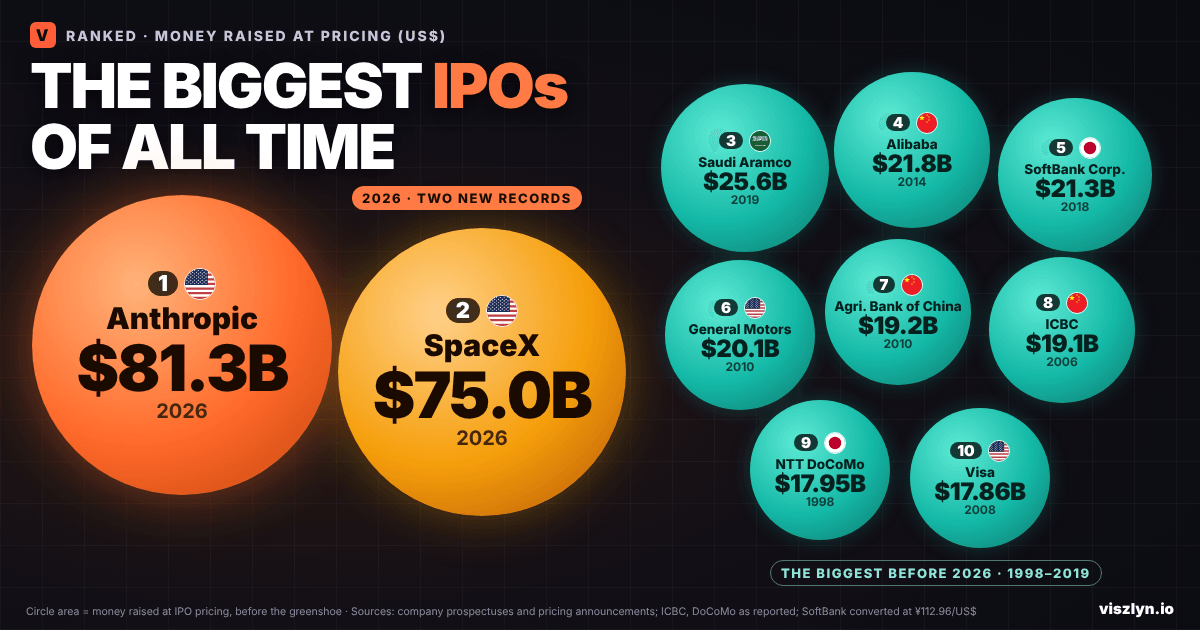
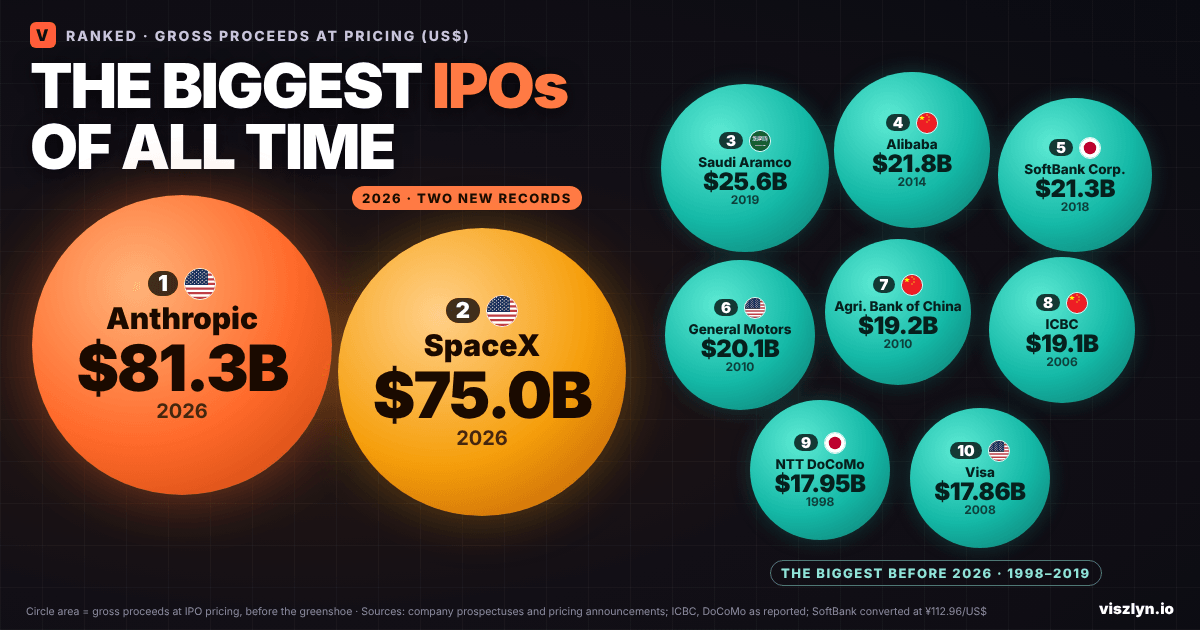
IPOs: apply review fixes (gross-proceeds wording, Anthropic share split, SpaceX net vs gross, NTT 20-F, SK hynix exclusion)
Claude-Session: https://claude.ai/code/session_01Lx7Mnbsr2j6Zre36XCS9Kp

Changed region(s): [[0.0617, 0.9651, 0.8325, 0.9952], [0.1233, 0.0302, 0.4008, 0.0905]]

diff --git a/src/data/rankings/biggest-ipos-of-all-time-2026.ts b/src/data/rankings/biggest-ipos-of-all-time-2026.ts
@@ -9,39 +9,39 @@ export const biggestIposOfAllTime2026: RankingArticle = {
 
   metaTitle: "The 10 Biggest IPOs of All Time (2026): Anthropic Is No. 1 | Viszlyn",
   metaDescription:
-    "Anthropic raised US$81.3 billion in its November 2026 IPO, the biggest ever, ahead of SpaceX (US$75.0 billion, June 2026) and Saudi Aramco (US$25.6 billion, 2019). The full top 10.",
+    "Anthropic's US$81.3 billion IPO tops the all-time ranking, ahead of SpaceX at US$75.0 billion and Saudi Aramco at US$25.6 billion. See the 10 largest offerings by gross proceeds at pricing.",
   ogTitle: "The 10 Biggest IPOs of All Time",
   ogDescription:
-    "Two 2026 listings, Anthropic (US$81.3B) and SpaceX (US$75.0B), each raised about three times more than the previous record, Saudi Aramco's US$25.6B.",
+    "Two 2026 listings, Anthropic (US$81.3B) and SpaceX (US$75.0B), were each about three times the size of the previous record, Saudi Aramco's US$25.6B.",
   twitterTitle: "The 10 Biggest IPOs Ever (2026)",
   twitterDescription:
     "Anthropic US$81.3B. SpaceX US$75.0B. Saudi Aramco US$25.6B. Alibaba US$21.8B. 2026 rewrote the IPO record book twice.",
 
   eyebrow: "Money",
   title: "The 10 Biggest IPOs of All Time",
-  dek: "Ranked by the money raised at pricing. Anthropic and SpaceX, both listed in 2026, each raised about three times as much as Saudi Aramco, which held the record from 2019.",
+  dek: "Ranked by gross proceeds at pricing. Anthropic and SpaceX, both listed in 2026, were each about three times the size of Saudi Aramco's IPO, the record from 2019.",
   publishedDate: "November 27, 2026",
   lastUpdated: "November 27, 2026",
   dataPeriod: "IPOs priced up to November 27, 2026",
   heroImage: {
     src: "/heroes/biggest-ipos-of-all-time-2026.webp",
     ogSrc: "/heroes/biggest-ipos-of-all-time-2026-og.png",
-    alt: "Circles sized by money raised in the 10 biggest IPOs: two huge circles for Anthropic (US$81.3 billion, 2026) and SpaceX (US$75.0 billion, 2026), then much smaller circles for Saudi Aramco (US$25.6 billion), Alibaba, SoftBank Corp., General Motors, Agricultural Bank of China, ICBC, NTT DoCoMo and Visa.",
+    alt: "Circles sized by gross proceeds in the 10 biggest IPOs: two huge circles for Anthropic (US$81.3 billion, 2026) and SpaceX (US$75.0 billion, 2026), then much smaller circles for Saudi Aramco (US$25.6 billion), Alibaba, SoftBank Corp., General Motors, Agricultural Bank of China, ICBC, NTT DoCoMo and Visa.",
   },
 
   quickAnswer:
-    "The biggest IPO of all time is Anthropic's: US$81.34 billion raised when it priced 980 million shares at US$83 on November 18, 2026, according to its final prospectus. With the extra shares its underwriters later bought, the total reached about US$93.5 billion. SpaceX is second with US$75.0 billion (June 2026), and Saudi Aramco, the record holder from 2019 until SpaceX, is third with US$25.6 billion.",
+    "The biggest IPO of all time is Anthropic's. It had a gross offering value of US$81.34 billion when it priced 980 million shares at US$83 on November 18, 2026, according to its final prospectus. Most of the shares were new stock sold by Anthropic; about 23.6 million were sold by existing shareholders. With the extra shares its underwriters later bought, the offering reached about US$93.5 billion. SpaceX is second at US$75.0 billion (June 2026), and Saudi Aramco, the record holder from 2019 until SpaceX, is third at US$25.6 billion.",
   introParagraph:
-    "An initial public offering (IPO) is the first time a company sells its shares to the public. This ranking compares the money raised at the moment each IPO was priced, before the extra \"greenshoe\" shares that banks can sell in the days after a listing. That is the one figure every deal has, stated in the company's own offering documents. The total after the greenshoe is shown for each entry too; it does not change the order of the top nine. Money raised counts every share sold in the offering, whether it was new stock from the company or existing shares sold by owners such as governments and early investors.",
+    "An initial public offering (IPO) is the first time a company sells its shares to the public. This ranking compares gross proceeds at the original offering price, before any extra \"greenshoe\" shares the banks bought afterwards. That gives a consistent starting point for every deal, and the total after the greenshoe is shown separately for each entry; it does not change the order of the top nine. Gross proceeds means the total value of the shares sold, before fees, whoever sold them. It measures the size of the offering, not the money the company received: shares sold by existing owners, such as governments and early investors, pay those owners.",
   calloutBox: {
     label: "2026 broke the record twice",
-    body: "SpaceX's US$75.0 billion IPO in June 2026 nearly tripled Saudi Aramco's 2019 record of US$25.6 billion. It stood for about five months, until Anthropic raised US$81.3 billion in November. Anthropic also sold about US$26.0 billion of non-voting shares in a separate private sale at the same time. That sale was not part of the IPO, so it is not counted here.",
+    body: "SpaceX's US$75.0 billion IPO in June 2026 nearly tripled Saudi Aramco's 2019 record of US$25.6 billion. It stood for about five months, until Anthropic's US$81.3 billion IPO in November. Anthropic also sold about US$26.0 billion of non-voting shares in a separate private sale at the same time. That sale was not part of the IPO, so it is not counted here.",
   },
 
-  chartTitle: "Money raised at IPO pricing, before the greenshoe (US$ billions)",
+  chartTitle: "Gross proceeds at IPO pricing, before the greenshoe (US$ billions)",
   chartSource: "Company prospectuses and offering announcements. SoftBank Corp. converted by Viszlyn; ICBC and NTT DoCoMo as reported at the time",
   chartTapNote: "Tap any company to see the year, exchange and total after the greenshoe.",
-  entryValueLabel: "Raised at pricing:",
+  entryValueLabel: "Gross proceeds at pricing:",
   chartItems: [
     { rank: 1, name: "Anthropic", value: "$81.3B", raw: 81.34, countries: [{ name: "Anthropic (2026)", flagCode: "us" }] },
     { rank: 2, name: "SpaceX", value: "$75.0B", raw: 75.0, countries: [{ name: "SpaceX (2026)", flagCode: "us" }] },
@@ -68,9 +68,9 @@ export const biggestIposOfAllTime2026: RankingArticle = {
     {
       rank: 9, name: "NTT DoCoMo", earnings: "About US$17.95 billion (¥2.1 trillion)", category: "Japan · Mobile phones · October 1998",
       origin: "Tokyo Stock Exchange · ¥3.9 million per share",
-      blurb: "DoCoMo sold 545,000 shares at ¥3.9 million each, about ¥2.1 trillion, of which roughly ¥1.2 trillion was new shares and the rest sold by its parent NTT. These figures come from news reports at the time; Viszlyn could not access a 1998 company filing.",
+      blurb: "The offering totalled 545,000 shares: NTT DoCoMo issued 327,000 new shares and its parent NTT sold 218,000, according to NTT's annual report filed with the SEC. At the reported price of ¥3.9 million a share, that is ¥1,275.3 billion of new shares and ¥850.2 billion sold by NTT (Viszlyn calculation), about ¥2.1 trillion in all. The US dollar total, US$17.95 billion, is as reported at the time.",
       standoutFact: "It ended its first trading day as Japan's third-most valuable company, behind only its parent NTT and Toyota.",
-      sourceTag: "Kyodo News and RCR Wireless (October 1998)",
+      sourceTag: "NTT, Form 20-F (share split); Kyodo News and RCR Wireless (price and US$ total, 1998)",
       countries: [{ name: "Japan", flagCode: "jp" }],
       image: { src: `${P}/docomo.webp`, width: 675, height: 1200, alt: "Sanno Park Tower, a tall pale office tower in Tokyo, against a blue sky", author: "Akonnchiroll", license: "CC BY-SA 4.0", licenseUrl: SA4, sourceUrl: "https://commons.wikimedia.org/wiki/File:Sanno_Park_Tower.jpg", caption: "Sanno Park Tower, Tokyo, NTT DoCoMo's headquarters." },
     },
@@ -132,7 +132,7 @@ export const biggestIposOfAllTime2026: RankingArticle = {
       rank: 2, name: "SpaceX", earnings: "US$75.0 billion at pricing · US$86.25 billion after the greenshoe", category: "United States · Space · June 2026",
       origin: "Nasdaq Global Select Market and Nasdaq Texas · US$135 per share",
       blurb: "SpaceX sold 555,555,555 shares at US$135 for US$74,999,999,925, according to its final prospectus, all of it new stock sold by the company. With the underwriters' extra shares the gross total was US$86.25 billion.",
-      standoutFact: "SpaceX's own closing announcement cites about US$85.7 billion; its quarterly report shows that is the amount after US$575 million of fees and costs.",
+      standoutFact: "SpaceX's SEC filing reports US$85.675 billion of net proceeds after US$575 million of underwriting commissions and offering costs; its closing announcement describes about US$85.7 billion as gross proceeds. The gross value of the full offering was about US$86.25 billion.",
       sourceTag: "SpaceX, final prospectus (Form 424B4) and Form 10-Q (Q2 2026)",
       countries: [{ name: "United States", flagCode: "us" }],
       image: { src: `${P}/spacex.webp`, width: 1200, height: 800, alt: "SpaceX's white headquarters and factory building in Hawthorne, California", author: "SpaceX", license: "CC0", licenseUrl: CC0, sourceUrl: "https://commons.wikimedia.org/wiki/File:SpaceX_Headquarters,_Hawthorne,_CA.jpg", caption: "SpaceX headquarters and factory, Hawthorne, California." },
@@ -140,7 +140,7 @@ export const biggestIposOfAllTime2026: RankingArticle = {
     {
       rank: 1, name: "Anthropic", earnings: "US$81.34 billion at pricing · about US$93.5 billion after the greenshoe", category: "United States · Artificial intelligence · November 2026",
       origin: "Nasdaq Global Select Market (ticker ANT) · US$83 per share",
-      blurb: "Anthropic, the maker of the Claude AI models, sold 980 million shares at US$83 for US$81,340,000,000, according to its final prospectus. The company sold about 956 million of those shares and existing holders about 24 million. Its underwriters then bought all 147 million extra shares, and Anthropic says the IPO raised about US$93.5 billion in total.",
+      blurb: "Anthropic, the maker of the Claude AI models, priced a 980-million-share offering at US$83, a gross value of US$81,340,000,000, according to its final prospectus. Anthropic sold 956.35 million of the shares and existing shareholders 23.65 million (about US$1.96 billion); Anthropic's own proceeds after underwriting discounts were US$78.84 billion. Its underwriters then bought all 147 million extra shares, taking the offering to about US$93.5 billion, of which Anthropic says it received about US$91.6 billion.",
       standoutFact: "A separate private sale of non-voting shares at the same price, about US$26.0 billion, is not part of the IPO and is not counted here.",
       sourceTag: "Anthropic, PBC, final prospectus (Form 424B4) and closing announcement",
       countries: [{ name: "United States", flagCode: "us" }],
@@ -149,10 +149,10 @@ export const biggestIposOfAllTime2026: RankingArticle = {
 
   keyTakeaway: {
     stat: "$156B",
-    label: "raised by 2026's two record IPOs, Anthropic and SpaceX, at pricing",
+    label: "gross offering value of 2026's two record IPOs, Anthropic and SpaceX, at pricing",
     comparisonStat: "$163B",
-    comparisonLabel: "raised by the other eight IPOs in the top 10 combined, from 1998 to 2019",
-    note: "Both totals are Viszlyn's sums of the base deal figures in this ranking (US$156.34 billion and US$162.90 billion). In 2026 alone, two IPOs raised nearly as much as the eight biggest IPOs of the previous 28 years.",
+    comparisonLabel: "gross offering value of the other eight deals in the top 10 combined, from 1998 to 2019",
+    note: "Both totals are Viszlyn's sums of the base deal figures in this ranking (US$156.34 billion and US$162.90 billion). In 2026 alone, two IPOs were nearly as big as the other eight deals in the top 10, from 1998 to 2019, put together.",
   },
 
   sourceNote: {
@@ -161,7 +161,7 @@ export const biggestIposOfAllTime2026: RankingArticle = {
     sources:
       "Final prospectuses (Form 424B4 or 424B1) filed with the US SEC for Anthropic, SpaceX, Alibaba, General Motors and Visa; Saudi Aramco's final offer price announcement; SoftBank Group's share disposal announcement; Agricultural Bank of China's HKEX announcements and Q3 2010 report; Anthropic's and SpaceX's closing announcements and SpaceX's Q2 2026 Form 10-Q. ICBC (FinanceAsia, 2006) and NTT DoCoMo (Kyodo News and RCR Wireless, 1998) use figures reported at the time. Exchange rate: US Federal Reserve H.10.",
     methodology:
-      "IPOs are ranked by gross proceeds at pricing, before any over-allotment (greenshoe) option: the amount stated in each company's pricing documents. Totals after the greenshoe are shown for each entry. They keep the same order for the top nine; on that basis Hong Kong insurer AIA (US$20.51 billion after its greenshoe, 2010) would replace Visa at No. 10. Proceeds count all shares sold in the offering, both new shares and existing shares sold by owners. Where a company published a US dollar figure at the time, that figure is used; otherwise the amount is converted at the Federal Reserve H.10 rate on the pricing date (SoftBank Corp.: ¥112.96 per US$1). Dual listings (Agricultural Bank of China, ICBC) are counted once with both tranches added together. General Motors counts its common and convertible preferred offerings together, as the deal was priced and reported. Later sell-downs of already-listed companies are excluded. Just outside the top 10: AIA (about US$17.8 billion at pricing, 2010), Enel (€16.55 billion, about US$17.4 billion, 1999) and Facebook (US$16.0 billion, 2012).",
+      "IPOs are ranked by the gross value of the shares and eligible equity securities sold at the original offering price, before any over-allotment (greenshoe) option. This measures the size of the public offering, not the amount the company received: proceeds from existing shares go to the selling shareholders, and underwriting fees and other costs are not deducted. Totals after the greenshoe are shown separately. On that basis the top nine keep the same order, and Hong Kong insurer AIA (US$20.51 billion after its greenshoe, 2010) would replace Visa at No. 10; on the base-deal basis AIA's about US$17.8 billion is just below Visa's US$17.864 billion. The ranking includes both new shares and existing shares sold by owners. It also includes General Motors' convertible preferred-stock offering, which was priced and reported alongside its common-stock IPO; the common stock alone was about US$15.8 billion. SoftBank Corp.'s 2018 listing counts as an IPO although all the shares were sold by its parent, SoftBank Group. Where a company published a US dollar figure at the time, that figure is used; otherwise the amount is converted at the Federal Reserve H.10 rate on the pricing date (SoftBank Corp.: ¥112.96 per US$1). Dual listings (Agricultural Bank of China, ICBC) are counted once, with both tranches added together. Later offerings and additional listings by companies that were already public are excluded: SK hynix's US$26.5 billion Nasdaq ADR offering in July 2026 is left out because the company was already listed in South Korea. ICBC's totals are as reported at the time; NTT DoCoMo's share split comes from NTT's SEC filing and its US dollar total from reports at the time. Figures are not adjusted for inflation. Just outside the top 10: AIA (about US$17.8 billion at pricing, 2010), Enel (€16.55 billion, about US$17.4 billion, 1999) and Facebook (US$16.0 billion, 2012).",
     sourceLinks: [
       { label: "Anthropic: final prospectus (Form 424B4)", href: "https://www.sec.gov/Archives/edgar/data/2130357/000162828026074944/anthropicpbc-424b4.htm" },
       { label: "Anthropic: IPO closing announcement", href: "https://www.anthropic.com/news/ipo-close" },
@@ -172,6 +172,8 @@ export const biggestIposOfAllTime2026: RankingArticle = {
       { label: "General Motors: final prospectus (Form 424B1)", href: "https://www.sec.gov/Archives/edgar/data/1467858/000119312510263484/d424b1.htm" },
       { label: "Agricultural Bank of China: HKEX announcement (PDF)", href: "https://www1.hkexnews.hk/listedco/listconews/sehk/2010/0729/ltn20100729037.pdf" },
       { label: "FinanceAsia: ICBC prices record IPO (2006)", href: "https://www.financeasia.com/article/icbc-surprises-no-one-by-pricing-record-ipo-at-the-top/66944" },
+      { label: "NTT Form 20-F (DoCoMo 1998 listing details)", href: "https://www.sec.gov/Archives/edgar/data/769594/000119312507146359/d20f.htm" },
+      { label: "SK hynix ADR offering (July 2026)", href: "https://www.nst.com.my/amp/business/corporate/2026/07/1484990/sk-hynix-raises-us265-billion-us-offering-after-pricing-adrs" },
       { label: "RCR Wireless: NTT DoCoMo IPO (1998)", href: "https://www.rcrwireless.com/19981101/archived-articles/ntt-docomo-launches-largest-ipo-in-japanese-history" },
       { label: "Visa: final prospectus (Form 424B4)", href: "https://www.sec.gov/Archives/edgar/data/1403161/000119312508060989/d424b4.htm" },
     ],
@@ -181,7 +183,7 @@ export const biggestIposOfAllTime2026: RankingArticle = {
     {
       question: "What is the biggest IPO of all time?",
       answer:
-        "Anthropic's, priced on November 18, 2026: US$81.34 billion at pricing and about US$93.5 billion after its underwriters bought extra shares. It began trading on the Nasdaq on November 19, 2026 under the ticker ANT.",
+        "Anthropic's, priced on November 18, 2026: a gross offering value of US$81.34 billion at pricing and about US$93.5 billion after its underwriters bought extra shares. It began trading on the Nasdaq on November 19, 2026 under the ticker ANT.",
     },
     {
       question: "Is SpaceX's IPO bigger than Saudi Aramco's?",
@@ -191,12 +193,17 @@ export const biggestIposOfAllTime2026: RankingArticle = {
     {
       question: "Did Anthropic raise US$119.5 billion?",
       answer:
-        "Not in its IPO. That figure adds a separate private sale of about US$26.0 billion of non-voting shares, made at the same price, to the IPO. The IPO itself raised US$81.34 billion at pricing and about US$93.5 billion after the greenshoe.",
+        "Not in its IPO. That figure adds a separate private sale of about US$26.0 billion of non-voting shares, made at the same price, to the IPO. The IPO itself had a gross value of US$81.34 billion at pricing and about US$93.5 billion after the greenshoe.",
     },
     {
       question: "What is a greenshoe?",
       answer:
-        "An option that lets the banks running an IPO sell extra shares, typically up to 15% more than planned, in the weeks after the listing if demand is strong. This ranking uses the amount raised before that option, because every IPO has that figure on its pricing day.",
+        "An option that lets the underwriters buy additional shares from the company or the selling shareholders, usually up to 15% of the original offering, to cover extra demand and support orderly trading. This ranking uses the original offering size before that option.",
+    },
+    {
+      question: "Why isn't SK hynix's US$26.5 billion Nasdaq offering on the list?",
+      answer:
+        "SK hynix was already listed in South Korea, so its July 2026 sale of American depositary shares on the Nasdaq was an additional US listing, not an initial public offering.",
     },
     {
       question: "Why does Saudi Aramco show US$25.6 billion, not US$29.4 billion?",
